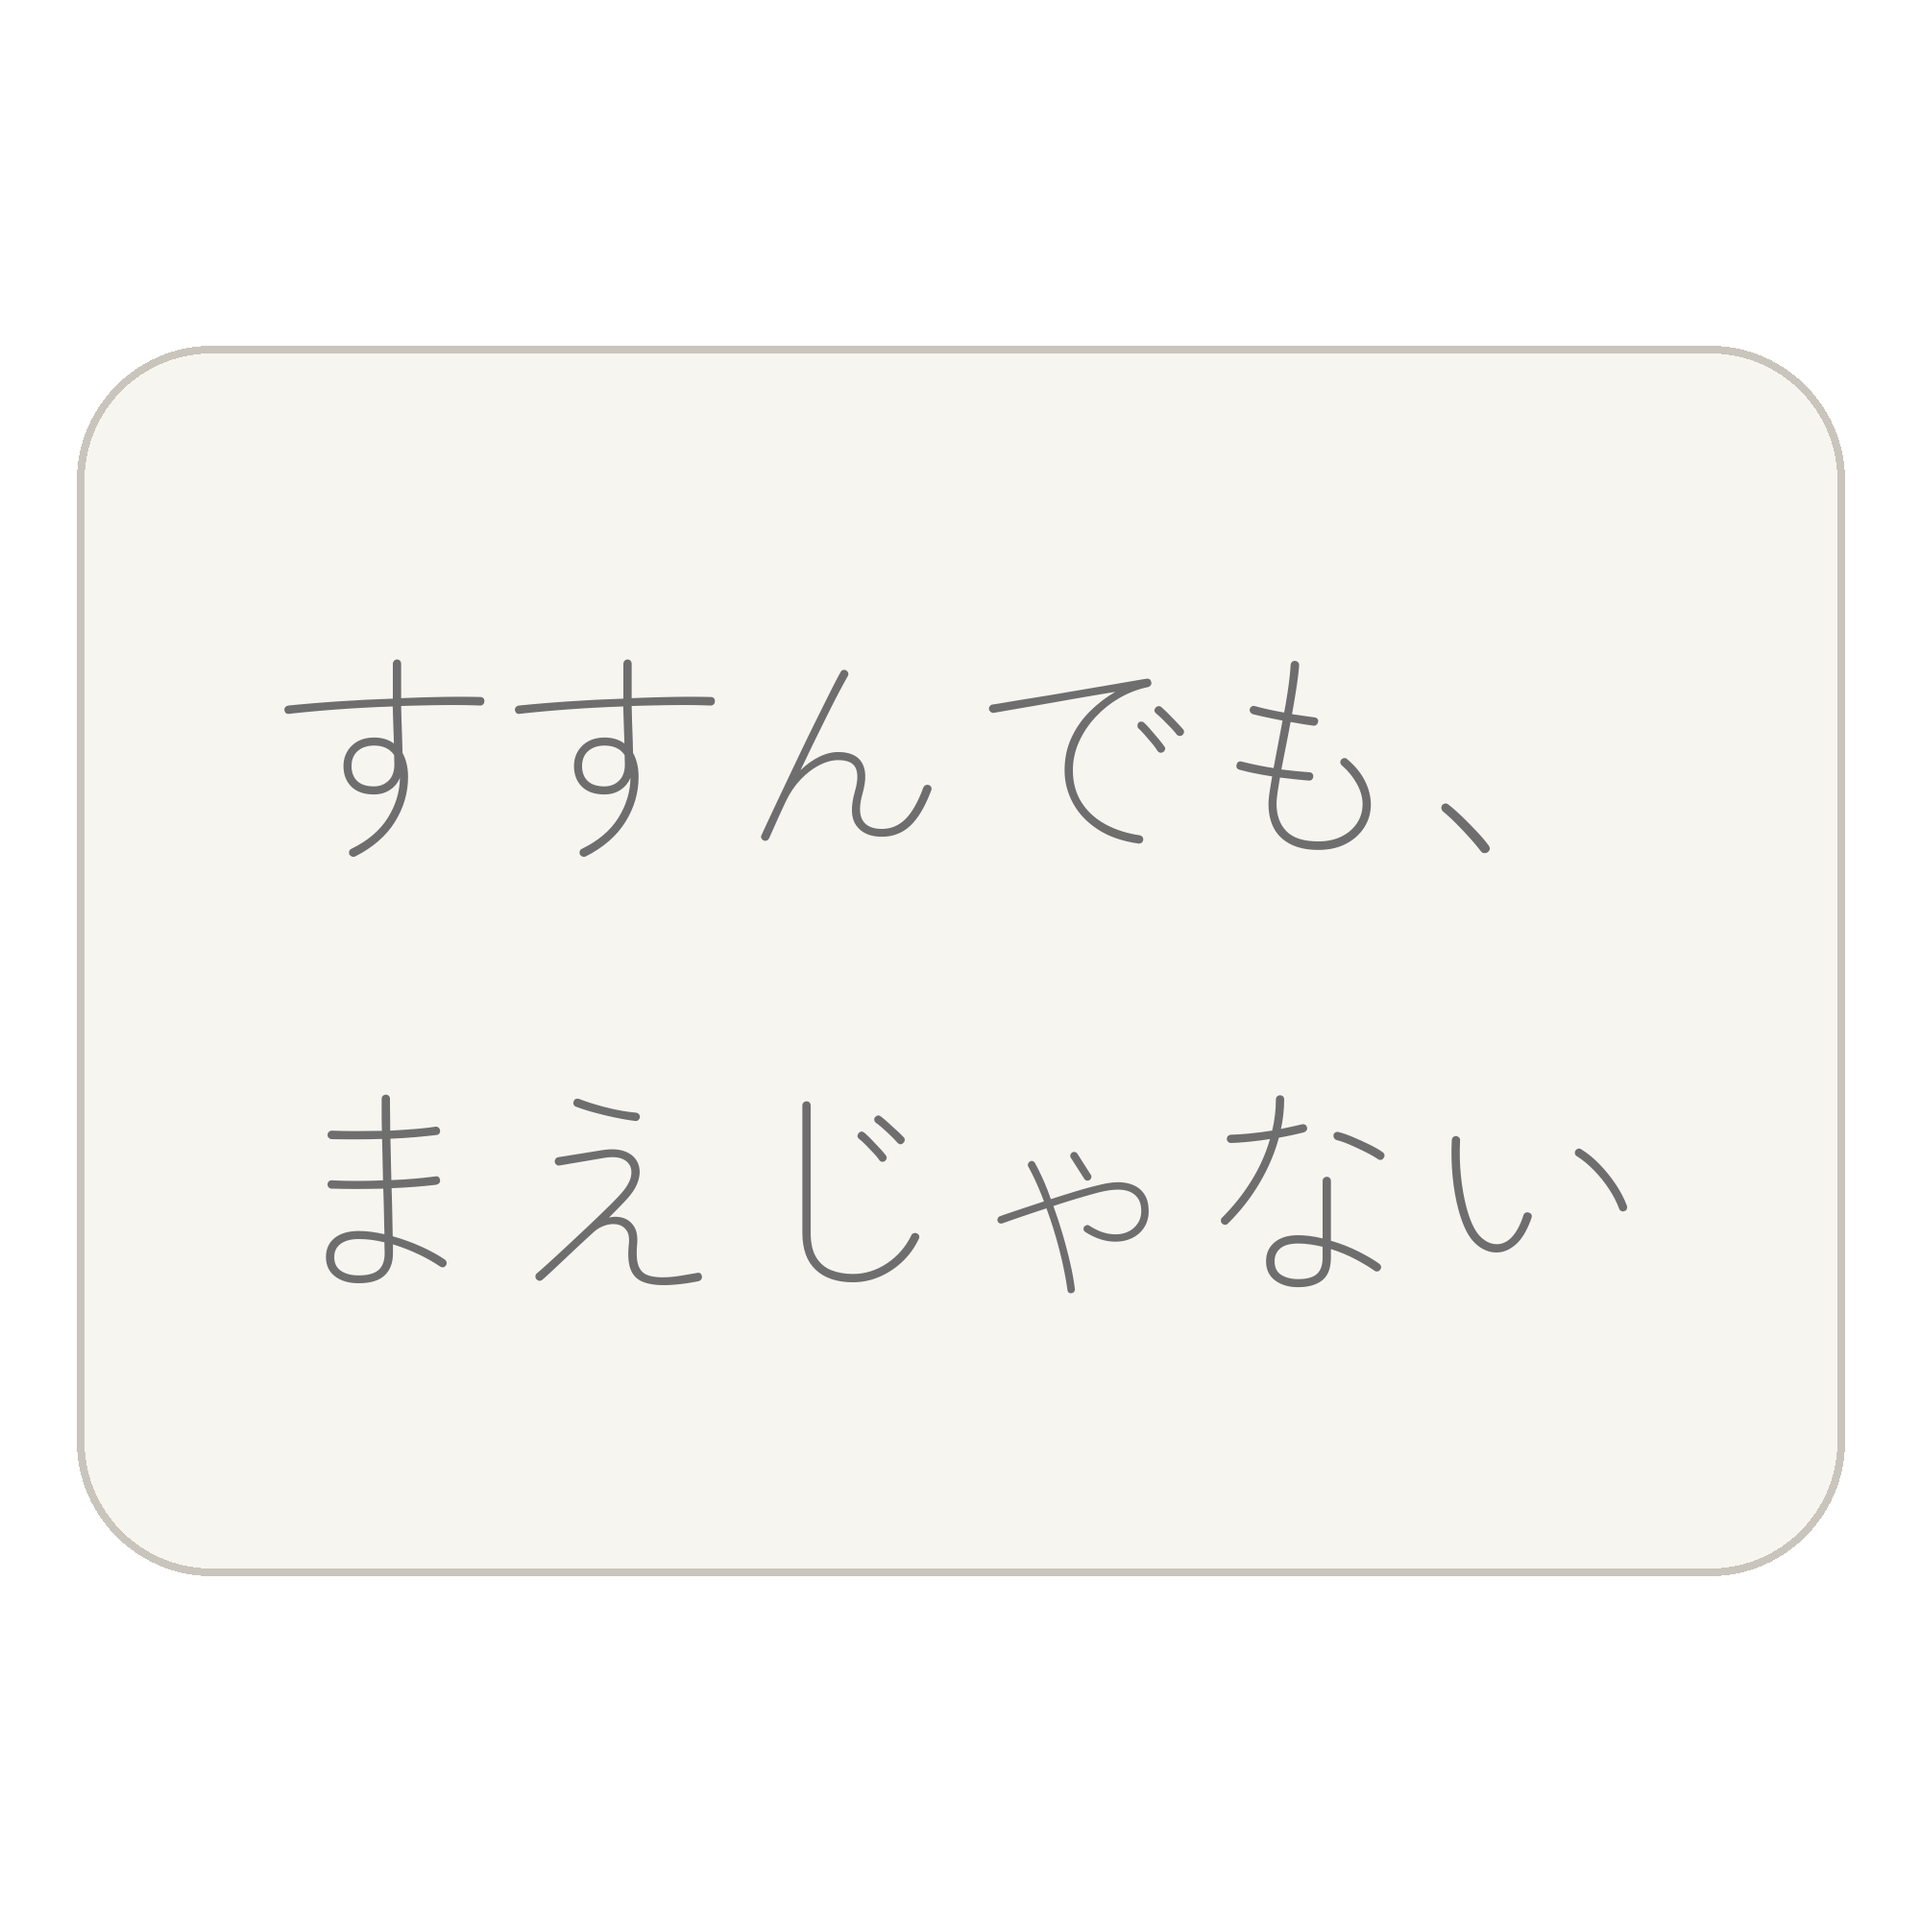
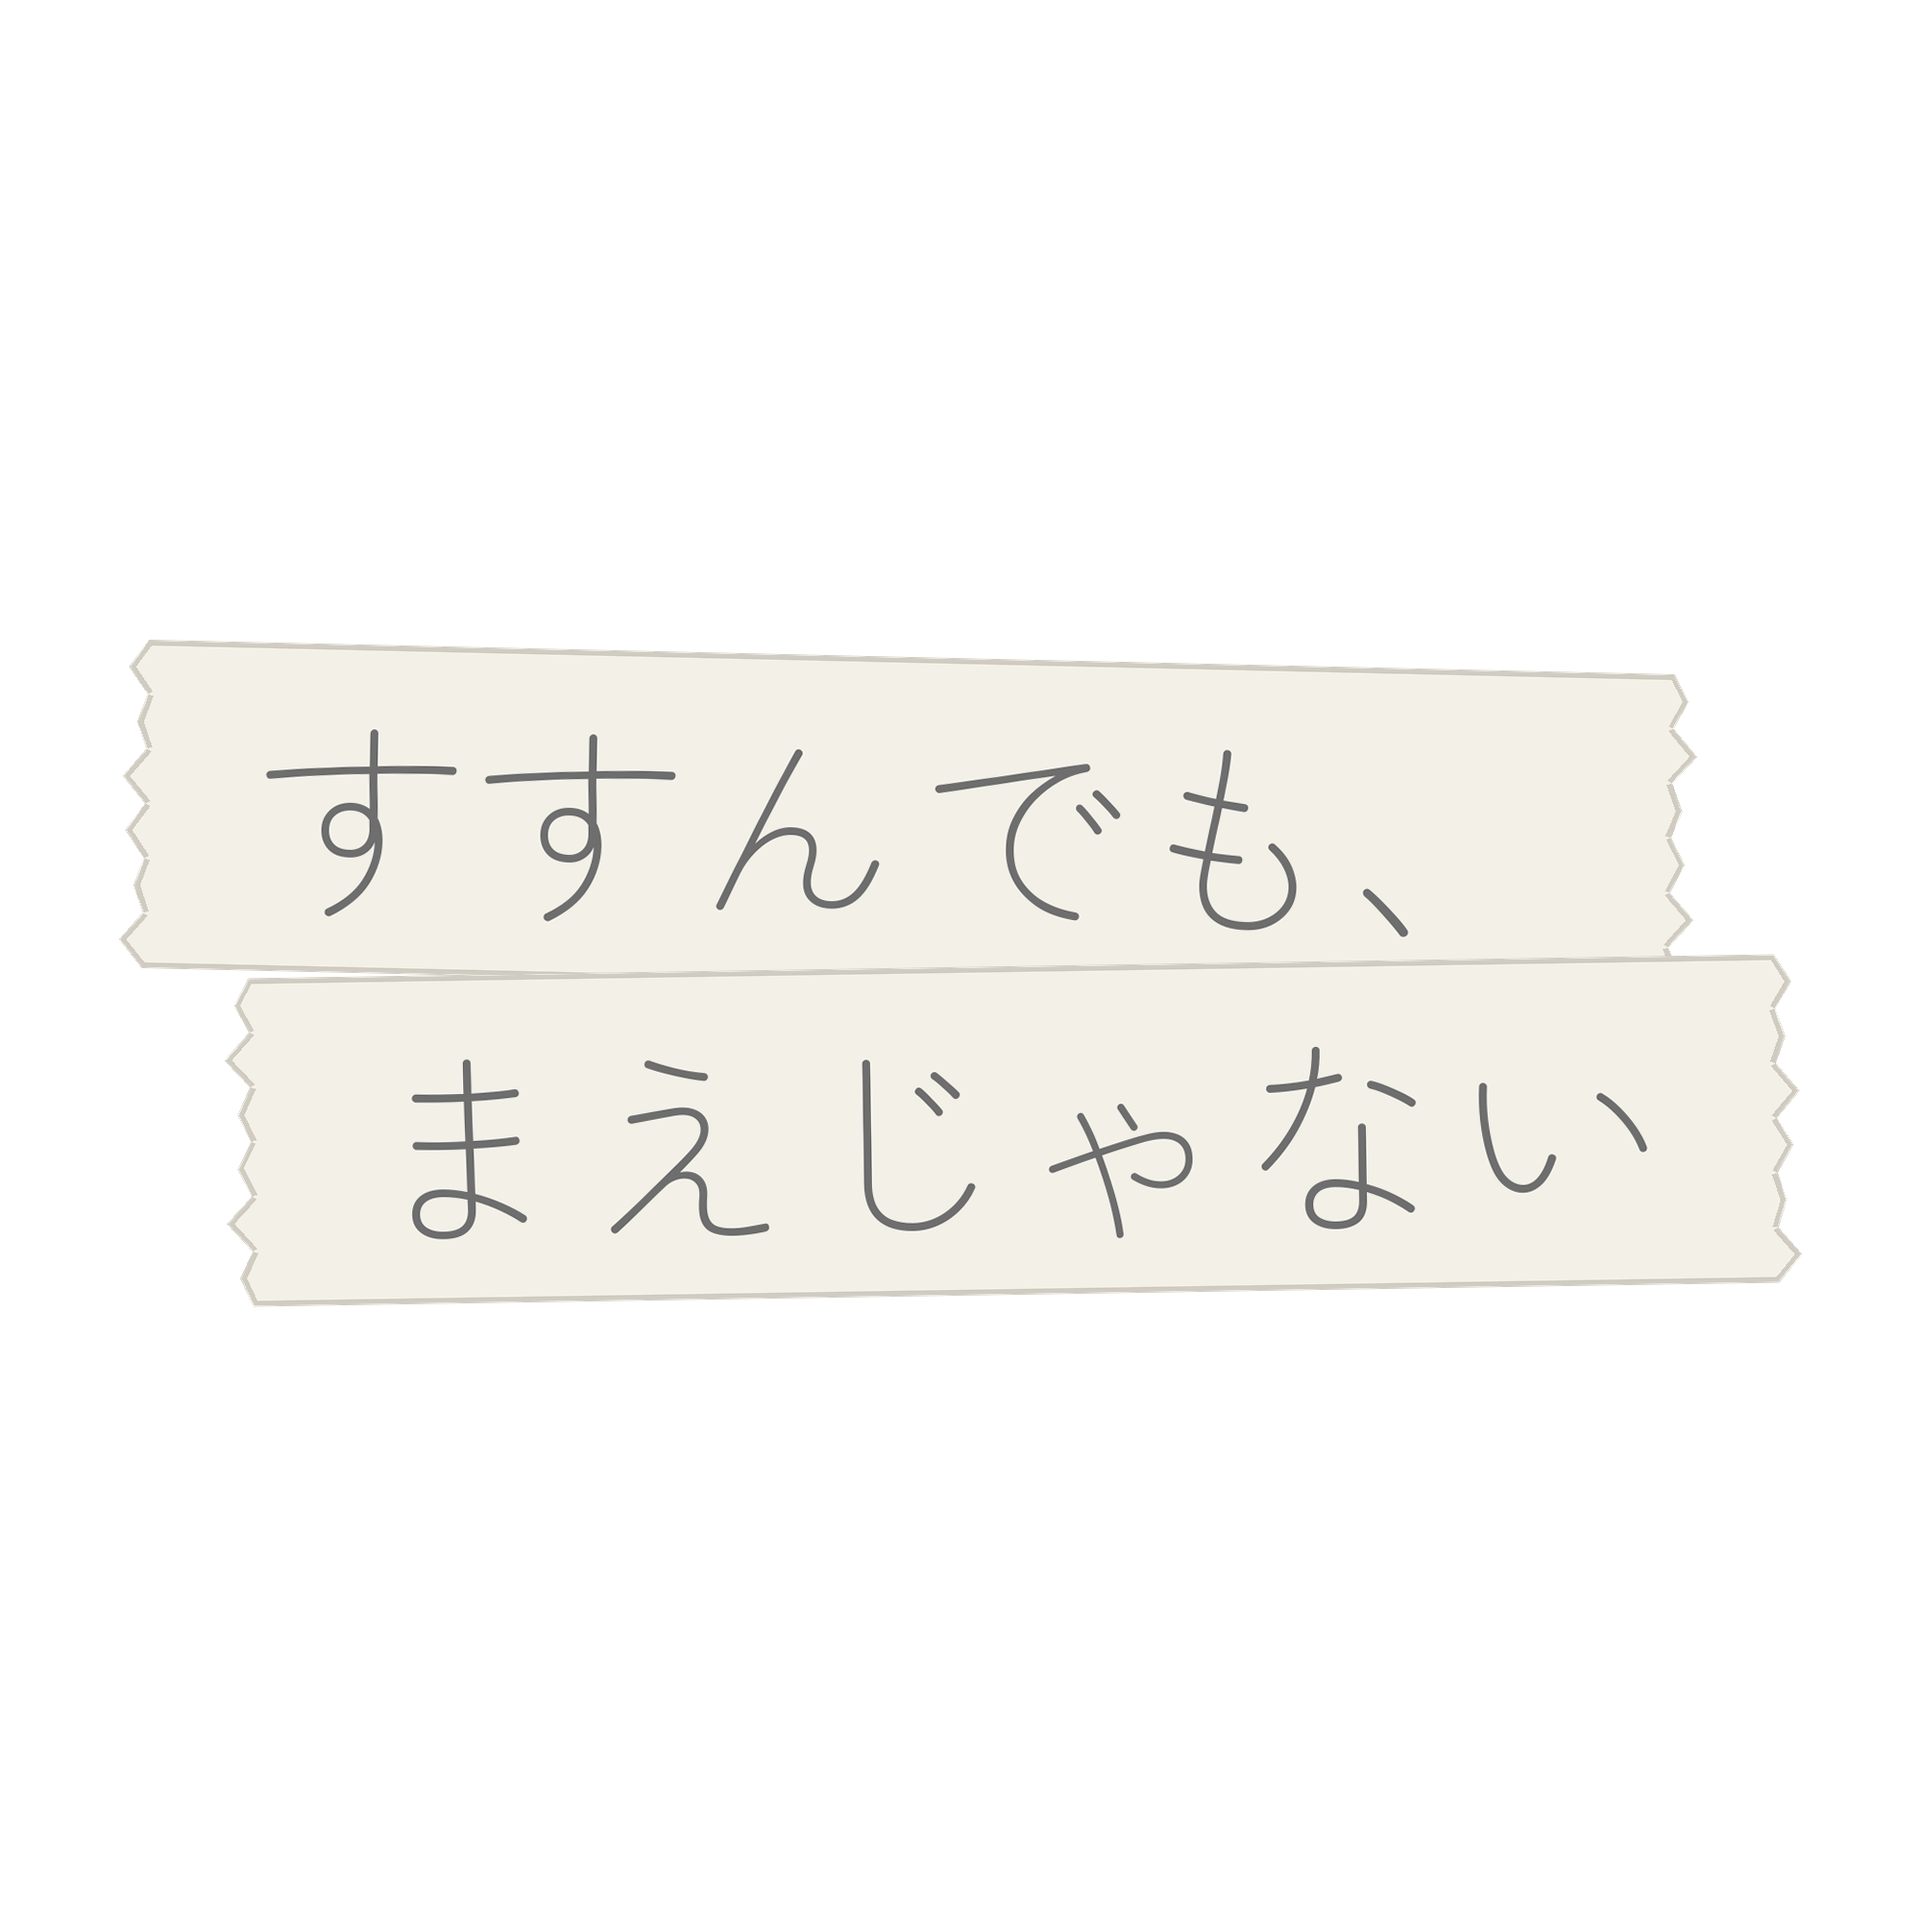
ステッカーをマスキングテープ風デザインに変更
1行=1本のちぎれ端テープを上下に少し重ねたレイアウト。
上下テープは必ず重なるため、カットラインは1枚につながる
(全9種で連結性を検証済み)。回転補間で生じる微小な
半透明ノイズはアルファ値のしきい値処理で除去。

Claude-Session: https://claude.ai/code/session_01Hth1TDsqnV3mvtVRGZwAwr

diff --git a/stickers/generate.py b/stickers/generate.py
@@ -2,12 +2,14 @@
 """「〜ても、シリーズ」ステッカー入稿データ生成スクリプト
 
 SUZURI入稿用の透過PNG(2000x2000)を stickers/png/ に出力する。
+デザインはマスキングテープ風: 1行=1本のテープ(両端ちぎれ)を上下に
+少し重ねて貼った見た目。重ねることでカットラインが1枚につながる。
 フォント: Zen Maru Gothic Light (SIL Open Font License 1.1 / 商用利用可)
 
 使い方:
     python3 stickers/generate.py
 """
-import io
+import math
 import os
 import urllib.request
 
@@ -20,18 +22,20 @@ FONT_URL = (
 FONT_CACHE = os.path.join(os.path.dirname(__file__), "ZenMaruGothic-Light.ttf")
 
 CANVAS = 2000          # SUZURI推奨の大判サイズ
-MAX_LINE_WIDTH = 1460  # 文字の最大幅(台座の内側に収める)
-MAX_FONT_SIZE = 300    # 短い行が間延びしないよう上限を設ける
-LINE_SPACING = 1.30    # 行間(脱力感を出すためやや広め)
+MAX_LINE_WIDTH = 1380  # 文字の最大幅(テープの余白とちぎれ分を除く)
+MAX_FONT_SIZE = 280    # 短い行が間延びしないよう上限を設ける
 COLOR = (110, 110, 110, 255)  # グレー1色。色数を増やすと脱力が死ぬ
 
-# 台座: 文字だけの切り抜きだと小さいパーツが破片になるため、
-# 全種共通の角丸ベースを敷いて1枚もののステッカーにする
-BASE_SIZE = (1840, 1280)       # 横長の角丸長方形(シリーズ共通)
-BASE_RADIUS = 140
-BASE_FILL = (247, 245, 240, 255)    # 生成り(真っ白より脱力する)
-BASE_BORDER = (201, 197, 188, 255)  # うっすら枠線
-BASE_BORDER_W = 8
+TAPE_FILL = (243, 240, 232, 255)    # 生成り(マステの紙色)
+TAPE_BORDER = (208, 204, 194, 255)  # うっすら輪郭(白地で消えないように)
+TAPE_BORDER_W = 6
+TAPE_PAD_X = 110       # テープ端から文字までの余白
+TAPE_HEIGHT_EM = 1.55  # フォントサイズに対するテープの高さ
+TEAR_AMP = 26          # ちぎれのギザギザの深さ
+TEAR_TEETH = 6         # ギザギザの山の数
+OVERLAP_RATIO = 0.18   # 上下テープの重なり(切り離れないための連結部)
+LINE_OFFSET_X = 55     # 上下テープの左右ズレ(手で貼った感)
+ANGLES = (-1.3, 0.9)   # 上下テープの微妙な傾き(度)
 
 STICKERS = [
     ("01-kaettemo", "かえっても、かえりたい"),
@@ -68,33 +72,69 @@ def fit_font_size(lines):
     return size
 
 
+def tear_edge(x_base, y_top, y_bottom, direction, phase):
+    """テープ端のちぎれ(ギザギザ)の頂点列を上から下へ返す"""
+    pts = []
+    steps = TEAR_TEETH * 2
+    for i in range(steps + 1):
+        y = y_top + (y_bottom - y_top) * i / steps
+        # 固定パターンの疑似乱数(再生成しても同じ形になる)
+        wob = math.sin(phase + i * 2.1) * 0.5 + 0.5
+        depth = TEAR_AMP * (0.35 + 0.65 * wob) if i % 2 else 0
+        pts.append((x_base + direction * depth, y))
+    return pts
+
+
+def tape_strip(line, font, size, phase):
+    """1行ぶんのテープ(ちぎれ両端)を透過レイヤーで返す"""
+    text_w = int(font.getbbox(line)[2])
+    strip_h = int(size * TAPE_HEIGHT_EM)
+    strip_w = text_w + TAPE_PAD_X * 2 + TEAR_AMP * 2
+    layer = Image.new("RGBA", (strip_w, strip_h), (0, 0, 0, 0))
+    draw = ImageDraw.Draw(layer)
+
+    xl, xr = TEAR_AMP, strip_w - TEAR_AMP
+    yt, yb = TAPE_BORDER_W, strip_h - TAPE_BORDER_W
+    right = tear_edge(xr, yt, yb, +1, phase)
+    left = tear_edge(xl, yb, yt, -1, phase + 3.7)
+    poly = [(xl, yt), (xr, yt)] + right + [(xr, yb), (xl, yb)] + left
+    draw.polygon(poly, fill=TAPE_FILL, outline=TAPE_BORDER, width=TAPE_BORDER_W)
+
+    ascent, descent = font.getmetrics()
+    ty = (strip_h - ascent - descent) // 2
+    draw.text(((strip_w - text_w) // 2, ty), line, font=font, fill=COLOR)
+    return layer
+
+
 def render(slug, text):
     lines = split_lines(text)
     size = fit_font_size(lines)
     font = load_font(size)
 
     img = Image.new("RGBA", (CANVAS, CANVAS), (0, 0, 0, 0))
-    draw = ImageDraw.Draw(img)
 
-    bw, bh = BASE_SIZE
-    bx, by = (CANVAS - bw) // 2, (CANVAS - bh) // 2
-    draw.rounded_rectangle(
-        (bx, by, bx + bw, by + bh),
-        radius=BASE_RADIUS,
-        fill=BASE_FILL,
-        outline=BASE_BORDER,
-        width=BASE_BORDER_W,
-    )
+    strips = []
+    for i, line in enumerate(lines):
+        layer = tape_strip(line, font, size, phase=1.3 + i * 2.9)
+        layer = layer.rotate(ANGLES[i], expand=True, resample=Image.BICUBIC)
+        strips.append(layer)
 
-    ascent, descent = font.getmetrics()
-    line_height = int((ascent + descent) * LINE_SPACING)
-    total_height = line_height * (len(lines) - 1) + ascent + descent
-    y = (CANVAS - total_height) // 2
+    strip_h = int(size * TAPE_HEIGHT_EM)
+    overlap = int(strip_h * OVERLAP_RATIO)
+    total_h = strips[0].height + strips[1].height - overlap - TEAR_AMP
+    top = (CANVAS - total_h) // 2
+    offsets = (-LINE_OFFSET_X, LINE_OFFSET_X)
+    y = top
+    for layer, dx in zip(strips, offsets):
+        x = (CANVAS - layer.width) // 2 + dx
+        img.alpha_composite(layer, (x, y))
+        y += layer.height - overlap
 
-    for line in lines:
-        w = draw.textlength(line, font=font)
-        draw.text(((CANVAS - w) // 2, y), line, font=font, fill=COLOR)
-        y += line_height
+    # 回転補間で生じるごく薄いノイズ画素を落とす
+    # (残すとSUZURI側のカットライン自動生成が誤検出しかねない)
+    r, g, b, a = img.split()
+    a = a.point(lambda v: 0 if v < 24 else v)
+    img = Image.merge("RGBA", (r, g, b, a))
 
     out_dir = os.path.join(os.path.dirname(__file__), "png")
     os.makedirs(out_dir, exist_ok=True)
@@ -108,7 +148,7 @@ def preview_sheet():
     cell = 640
     cols = 3
     rows = (len(STICKERS) + cols - 1) // cols
-    # ステッカーの輪郭(カットライン)が見えるよう、台座より暗い背景にする
+    # ステッカーの輪郭(カットライン)が見えるよう、テープより暗い背景にする
     sheet = Image.new("RGB", (cell * cols, cell * rows), (206, 203, 197))
     out_dir = os.path.join(os.path.dirname(__file__), "png")
     for i, (slug, _) in enumerate(STICKERS):
